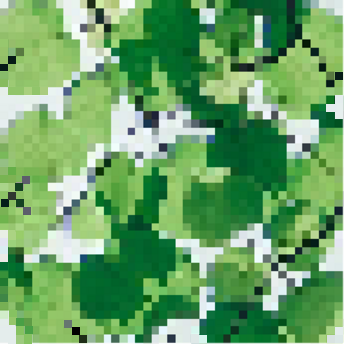
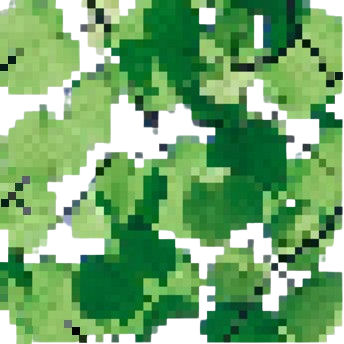
Maps now have a background image.

diff --git a/arena.py b/arena.py
@@ -21,26 +21,27 @@ class Arena:
             self.image = None
 
         @classmethod
-        def set_values_to_pics(cls, pygame, base_path):
+        def set_values_to_pics(cls, pygame, base_path, tile_size):
             """
             Sets the images of the Enum TileType to the loaded pictures specified by their filename.
             :param pygame: instance of pygame
             :param base_path: base path of picture directory, for example ".\\PixelArt\\"
+            :param tile_size: size of the tiles
             """
             for member in cls:
-                member.image = pygame.image.load(base_path + member.filename)
+                member.image = pygame.transform.scale(pygame.image.load(base_path + member.filename), (tile_size, tile_size))
 
     tile_size = 50
     blocks_base_path = ".\\PixelArt\\"
     maps_base_path = ".\\Maps\\"
 
     def __init__(self, filename, pygame):
-        self.load_map_from_json(filename)
-        self.TileType.set_values_to_pics(pygame, self.blocks_base_path)
+        self.load_map_from_json(filename, pygame)
+        self.TileType.set_values_to_pics(pygame, self.blocks_base_path, self.tile_size)
 
-    def load_map_from_json(self, filename):
+    def load_map_from_json(self, filename, pygame):
         try:
-            self._load_map_from_json_helper(filename)
+            self._load_map_from_json_helper(filename, pygame)
         except (
             FileNotFoundError,
             json.JSONDecodeError,
@@ -48,9 +49,9 @@ class Arena:
             ValueError,
         ):
             print("File not found!")
-            self._load_map_from_json_helper("emptyMap.json")
+            self._load_map_from_json_helper("emptyMap.json", pygame)
 
-    def _load_map_from_json_helper(self, filename):
+    def _load_map_from_json_helper(self, filename, pygame):
         with open(self.maps_base_path + filename, "r") as f:
             data = json.load(f)
             self.num_tiles_x = data["num_tiles_x"]
@@ -58,6 +59,8 @@ class Arena:
             self.tiles = [
                 [Arena.TileType[tile] for tile in row] for row in data["tiles"]
             ]
+            background_image_unscaled = pygame.image.load(self.maps_base_path + data["background_image"])
+            self.background_image = pygame.transform.scale(background_image_unscaled, pygame.display.get_window_size())
 
     def paint_arena(self, pygame, screen):
         """
@@ -66,11 +69,12 @@ class Arena:
         :param pygame: pygame instance
         :param screen: screen element of pygame initialized with pygame.display.set_mode()
         """
+        screen.blit(self.background_image, (0, 0))
         y = 0
         for row in self.tiles:
             x = 0
             for tile in row:
-                screen.blit(pygame.transform.scale(tile.image, (self.tile_size, self.tile_size)), (x, y))
+                screen.blit(tile.image, (x, y))
                 x += self.tile_size
             y += self.tile_size
 
